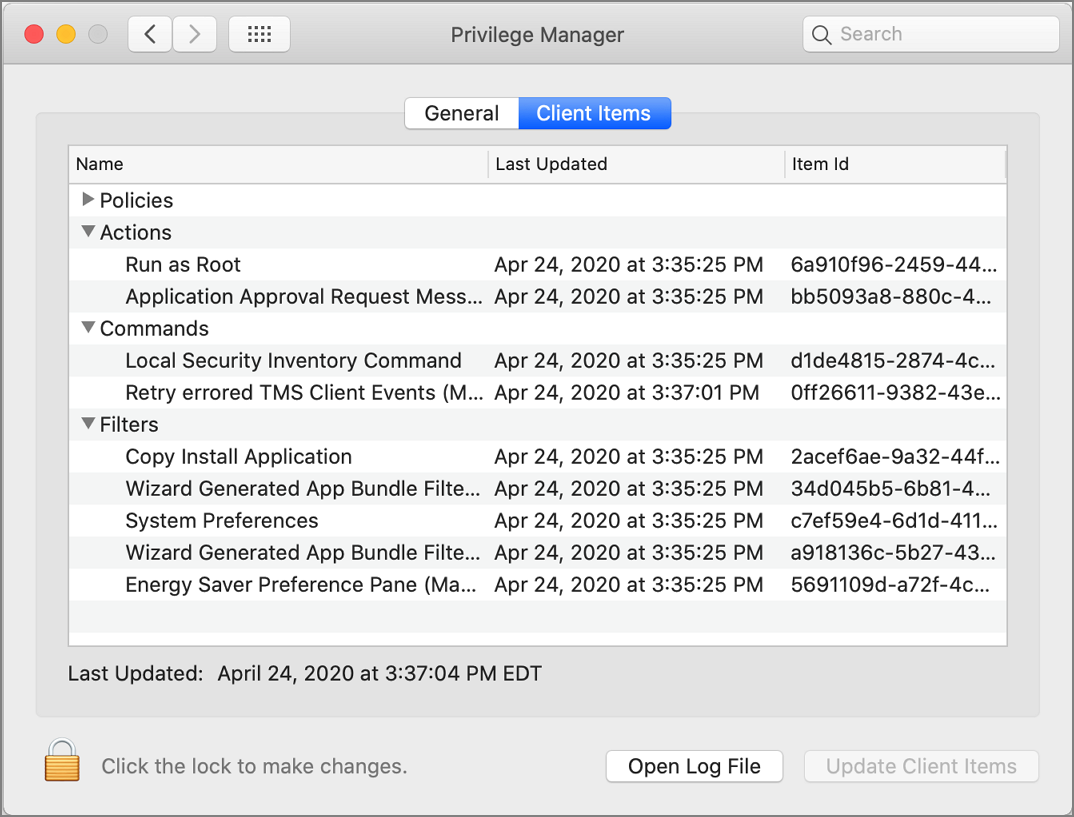
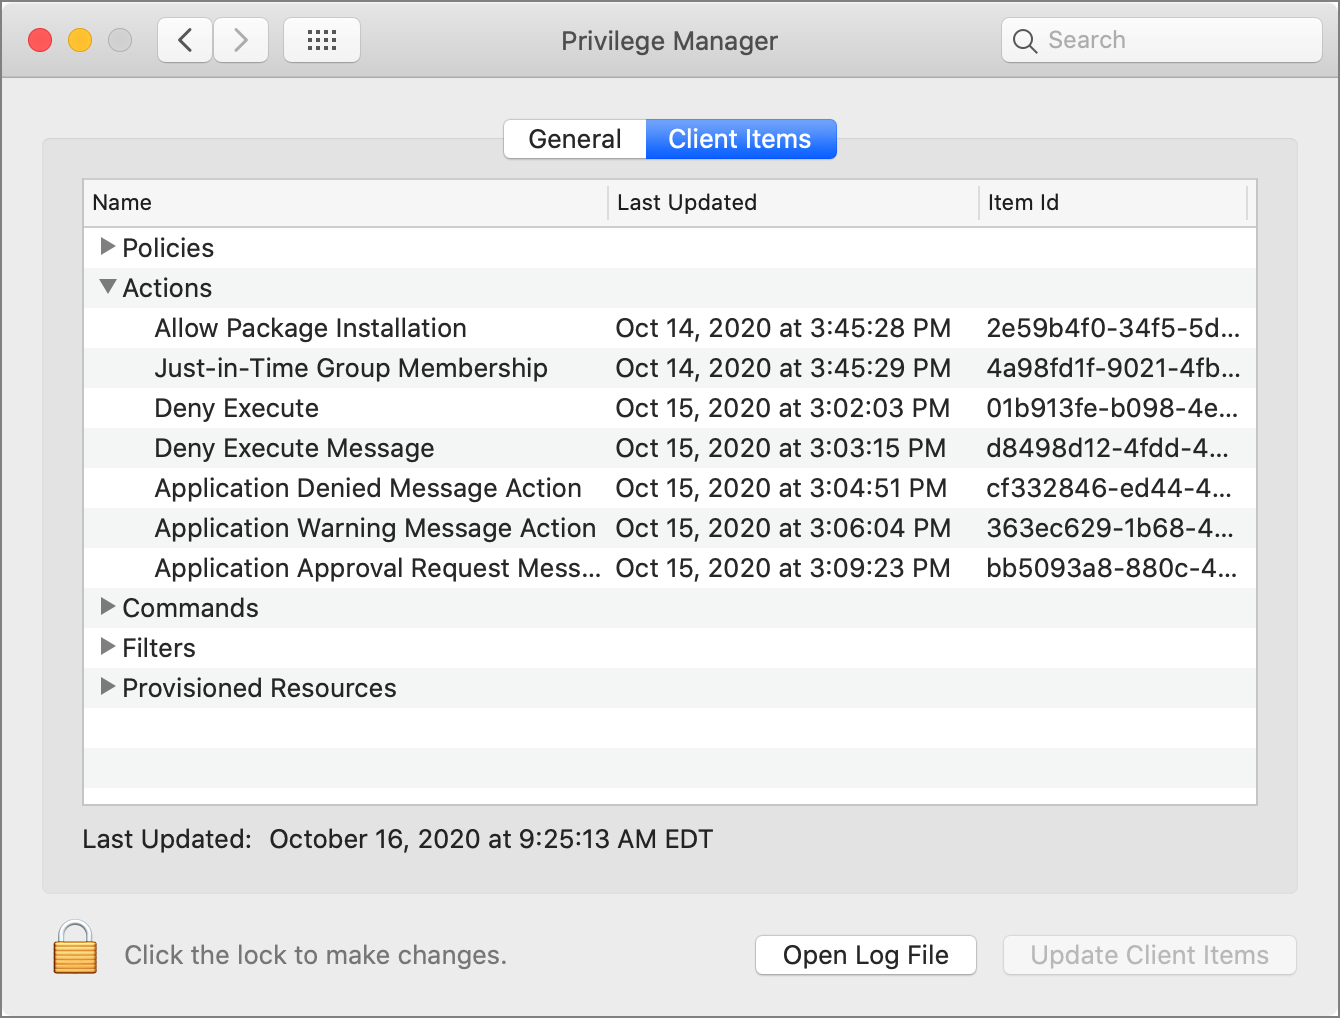
#206490: swapped image and updated list of client items categories

diff --git a/agents/macOS/utility.md b/agents/macOS/utility.md
@@ -60,11 +60,12 @@ The Client Items tab provides an overview of all client items on the endpoint. T
 * Actions
 * Commands
 * Filters
+* Provisioned Resources
 
 The following image shows the client items on the endpoint in an unlocked preference pane with policies expanded.
 
 ![client items unlocked](images/unlocked-client-items-tab.png "View of client items on endpoint, unlocked mode with policies expanded")
 
-Use expand/collapse to better navigate through the list of applicable client items on the endpoint. The following image shows the client items on the endpoint in a locked preference pane with policies collapsed.
+Use expand/collapse to better navigate through the list of applicable client items on the endpoint. The following image shows the client items on the endpoint in a locked preference pane with policies, commands, filters, and provisioned resources collapsed.
 
 ![client items locked](images/locked-client-items-tab.png "View of client items on endpoint, locked mode with policies collapsed")
